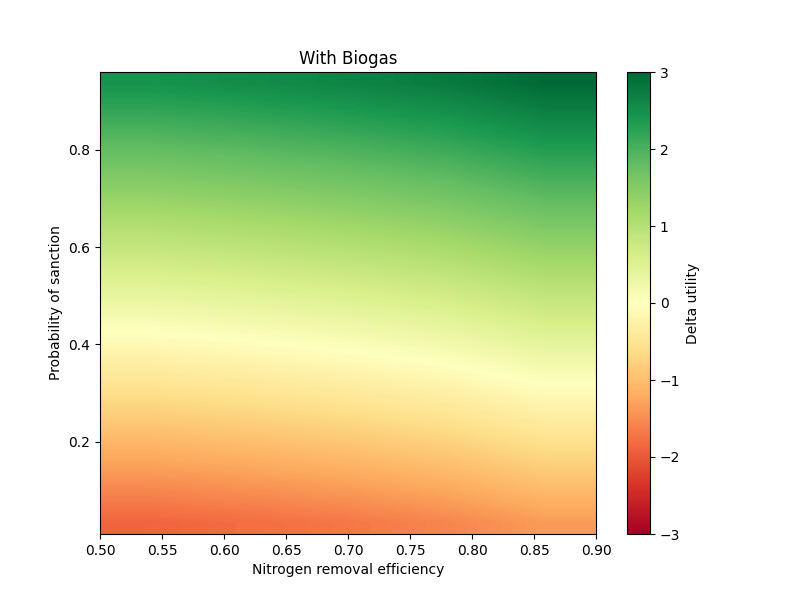
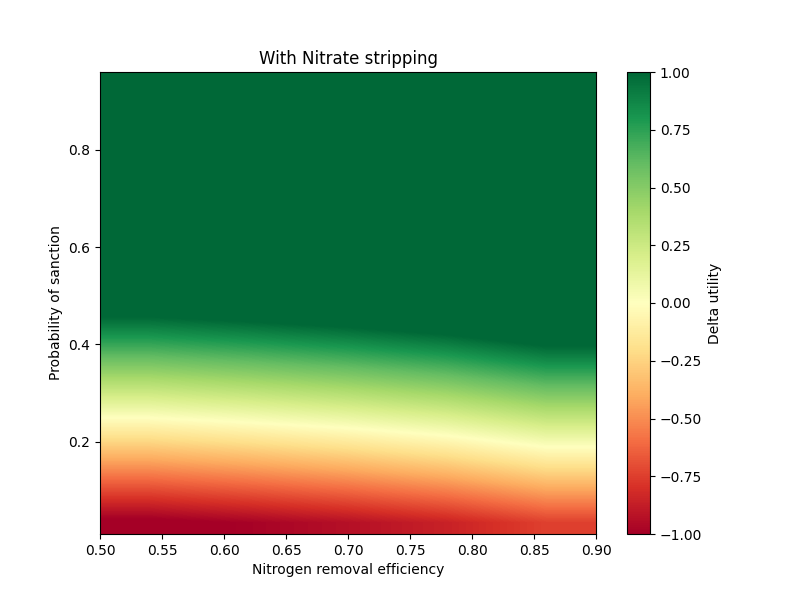
u

diff --git a/Biogas/Biogas.py b/Biogas/Biogas.py
@@ -3,6 +3,7 @@ import numpy as np
 import matplotlib.pyplot as plt
 import pandas as pd 
 import matplotlib.colors as colors
+from scipy.interpolate import interp1d
 #%% Parameters initialization
 
 N_limit = 170 # kg N/ha, direttiva nitrati
@@ -11,11 +12,11 @@ N_strip_eff = 0.7 # Efficienza di rimozione dell'azoto
 N_strip_eff_val = np.arange(0.5,1,0.1) # min, med, max
 Land_spred_ha = 1
 Land_cost = 589 # Euro/ha, Dati RICA, (Affitti passivi / sau in affitto)
-Land_cost_to_right = 0.1 # fraction of the land cost to be paid in case of land rights
+Land_cost_to_right = 0.005 # fraction of the land cost to be paid in case of land rights
 Land_rights = Land_cost * Land_cost_to_right
 p_sanction = 0.3 # Probabilità di sanzione
 p_sanction_val = np.arange(0.01,1,0.05)
-Land_cost_to_rights_val = np.arange(0.1,1,0.1) #
+Land_cost_to_rights_val = np.arange(0.001,0.1,0.001) #
 Land_cost_0	= 0 #Land cost for non-compliace
 Sanction = 2582.28  # 516.46 ad euro 5164.57 , Disciplina tecnica per la utilizzazione dei liquami zootecnici - Le sanzioni amministrative sono così graduate: a) in sede di prima violazione, la sanzione da applicare è pari alla sanzione minima prevista;b) in sede di seconda violazione, la sanzione da applicare è pari al 50% della sanzione massima prevista;c) in sede di terza violazione, la sanzione da applicare è pari al 75% della sanzione massima prevista;d) in sede di quarta e successiva violazione, la sanzione da applicare è pari alla sanzione massima prevista
 Sanction_val = [516.46, 2582.28, 3873.43 , 5164.57] # min, 50%, 75%, max
@@ -76,9 +77,9 @@ def plot_results(results, par1 , par2, b = False):
     plt.xlabel(par1)
     plt.ylabel(par2)
     if b:
-        plt.title('With Biogas')
+        plt.title('With Nitrate stripping technology')
     else:
-        plt.title('Without Biogas')
+        plt.title('Without Nitrate stripping')
     if b:
         plt.savefig(('./Grafici/'+par1+'_'+par2+'_biogas.png'))
     else: 
@@ -88,16 +89,16 @@ def plot_results(results, par1 , par2, b = False):
 def heatmap2d(arr: np.ndarray, xlabel, ylabel, x_param, y_param, b = False):
 
     plt.figure(figsize=(8,6))
-    norm = colors.TwoSlopeNorm(vmin= -3, vcenter=0 , vmax=+3)
+    norm = colors.TwoSlopeNorm(vmin= -1, vcenter=0 , vmax=+1)
     img = plt.imshow(arr,aspect='auto', origin='lower', 
                  extent=[ y_param[0], y_param[-1],x_param[0], x_param[-1]], 
                   interpolation= 'Bilinear', cmap='RdYlGn', norm=norm)
     # Add colorbar
     plt.colorbar(img, label='Delta utility')
     if b:
-        plt.title('With Biogas')
+        plt.title('With Nitrate stripping')
     else:
-        plt.title('Without Biogas')
+        plt.title('Without Nitrate stripping')
     plt.xlabel(xlabel)
     plt.ylabel(ylabel)
     if b:
@@ -108,16 +109,16 @@ def heatmap2d(arr: np.ndarray, xlabel, ylabel, x_param, y_param, b = False):
 def heatmap2d2(arr: np.ndarray, xlabel, ylabel, x_param, y_param, b = False):
 
     plt.figure(figsize=(8,6))
-    norm = colors.TwoSlopeNorm(vmin= -3, vcenter=0 , vmax=+3)
+    norm = colors.TwoSlopeNorm(vmin= -1, vcenter=0 , vmax=+1)
     img = plt.imshow(arr,aspect='auto', origin='lower', 
                  extent=[ y_param[0], y_param[-1],x_param[0], x_param[-1]], 
                   interpolation= 'Bilinear', cmap='RdYlGn')
     # Add colorbar
     plt.colorbar(img, label='Delta utility')
     if b:
-        plt.title('With Biogas')
+        plt.title('With Nitrate stripping')
     else:
-        plt.title('Without Biogas')
+        plt.title('Without Nitrate stripping')
     plt.xlabel(xlabel)
     plt.ylabel(ylabel)
     if b:
@@ -132,7 +133,7 @@ def deltab_heat(arr: np.ndarray, xlabel, ylabel, x_param, y_param):
                   interpolation= 'Bilinear', cmap='Blues')
         # Add colorbar
     plt.colorbar(img, label='Difference of Delta Utilities')
-    plt.title('Difference of Delta Utilities between biogas and non-biogas')
+    plt.title('Difference of Delta Utilities between the two scenarios')
     plt.xlabel(xlabel)
     plt.ylabel(ylabel)
     plt.savefig(('./Grafici/'+xlabel+'_'+ylabel+'_diff.png'))
@@ -174,7 +175,6 @@ def surface3d_plot(arr: np.ndarray, xlabel, ylabel, x_param, y_param, b=False):
     # Show the plot
     plt.show()
 
-
 # %% Disposal costs and risk aversion
 # Sensitivity analysis
 results = np.zeros((len(Land_cost_to_rights_val),len(Risk_aversion_val)))
@@ -191,6 +191,7 @@ heatmap2d(resultsb, 'Risk aversion', 'Manure disposal cost', lr, Risk_aversion_v
 
 surface3d_plot(results, 'Risk aversion', 'Manure disposal cost', lr, Risk_aversion_val)
 
+
 # %% Sanction and probability of sanction
 results2 = np.zeros((len(Sanction_val),len(p_sanction_val)))
 resultsb  = np.zeros((len(Sanction_val),len(p_sanction_val)))
@@ -205,6 +206,8 @@ heatmap2d(results2,  'Probability of sanction', 'Sanction',Sanction_val,p_sancti
 heatmap2d(resultsb,  'Probability of sanction', 'Sanction',Sanction_val,p_sanction_val,1 )
 deltab_heat(deltab, 'Probability of sanction', 'Sanction',Sanction_val,p_sanction_val)
 surface3d_plot(results2, 'Probability of sanction', 'Sanction',Sanction_val,p_sanction_val)
+
+
 # %% Risk aversion and probability of sanction
 results = np.zeros((len(p_sanction_val),len(Risk_aversion_val)))
 resultsb  = np.zeros((len(p_sanction_val),len(Risk_aversion_val)))
@@ -261,4 +264,17 @@ for i in range(len(Land_cost_to_rights_val)):
 heatmap2d2(results, 'Nitrogen removal efficiency', 'Manure disposal cost', (Land_cost * Land_cost_to_rights_val), N_strip_eff_val)
 heatmap2d2(resultsb, 'Nitrogen removal efficiency', 'Manure disposal cost', (Land_cost * Land_cost_to_rights_val), N_strip_eff_val,1)
 deltab_heat(resultsb-results, 'Nitrogen removal efficiency', 'Manure disposal cost', (Land_cost * Land_cost_to_rights_val), N_strip_eff_val)
+# %% MAnure disposal cost and risk aversion
+results = np.zeros((len(Land_cost_to_rights_val),len(Risk_aversion_val)))
+resultsb  = np.zeros((len(Land_cost_to_rights_val),len(Risk_aversion_val)))
+for i in range(len(Land_cost_to_rights_val)):
+    for j in range(len(Risk_aversion_val)):
+        L_r = Land_cost * Land_cost_to_rights_val[i]
+        results[i,j]= delta_compliance(L_r, Risk_aversion_val[j], p_sanction, Land_cost_0, Sanction)
+        resultsb[i,j]= delta_compliance_b(L_r, Risk_aversion_val[j], p_sanction, Land_cost_0, Sanction, N_strip_eff)
+# Plot the heatmap
+heatmap2d(results, 'Risk aversion', 'Manure disposal cost', (Land_cost * Land_cost_to_rights_val), Risk_aversion_val)
+heatmap2d(resultsb, 'Risk aversion', 'Manure disposal cost', (Land_cost * Land_cost_to_rights_val), Risk_aversion_val,1)
+deltab_heat(resultsb-results, 'Risk aversion', 'Manure disposal cost', (Land_cost * Land_cost_to_rights_val), Risk_aversion_val)
+
 # %%
